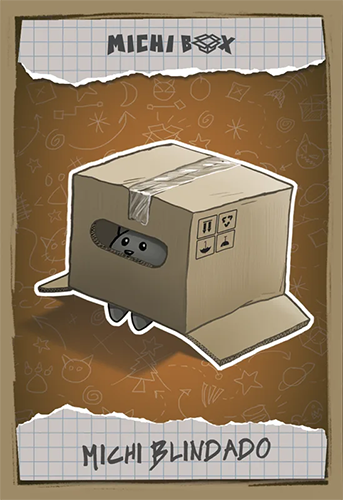
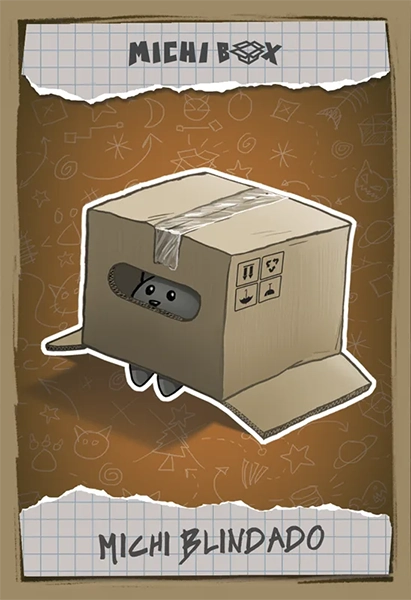
v182

Changed region(s): [[0.8746, 0.6, 0.9038, 0.63], [0.6122, 0.06, 0.6414, 0.09]]

diff --git a/galeria.html b/galeria.html
@@ -253,12 +253,12 @@
             <div class="carta frente" data-circle="circle4">
               <img loading="lazy" class="medio" src="assets/cartas/NORMALES/001.webp" />  
                <div class="codigoqrdecarta sinQRNORMAL"> 
-                  <DIV class="michiconfundido"></DIV>
+                  <DIV class="michiconfundido lazy-michi"></DIV>
                    <p class="TEXTOQRALERTA" > NO PUEDES INTERCAMBIAR CARTAS NORMALES</p>
                 </div>       
                       
             </div>
-            <div class="carta trasera"> </div>
+            <div class="carta trasera lazy-michi"> </div>
           </div>
         </div>
 
@@ -268,11 +268,11 @@
             <div class="carta frente" data-circle="circle4">
               <img loading="lazy" class="medio" src="assets/cartas/NORMALES/002.webp" />   
            <div class="codigoqrdecarta sinQRNORMAL"> 
-                  <DIV class="michiconfundido"></DIV>
+                  <DIV class="michiconfundido lazy-michi "></DIV>
                    <p class="TEXTOQRALERTA" > NO PUEDES INTERCAMBIAR CARTAS NORMALES</p>
                 </div>               
             </div>
-            <div class="carta trasera"> </div>
+            <div class="carta trasera lazy-michi "> </div>
           </div>
         </div>
 
@@ -282,11 +282,11 @@
             <div class="carta frente" data-circle="circle4">
               <img loading="lazy" class="medio" src="assets/cartas/NORMALES/003.webp" />
            <div class="codigoqrdecarta sinQRNORMAL"> 
-                  <DIV class="michiconfundido"></DIV>
+                  <DIV class="michiconfundido lazy-michi "></DIV>
                    <p class="TEXTOQRALERTA" > NO PUEDES INTERCAMBIAR CARTAS NORMALES</p>
                 </div>                  
             </div>
-            <div class="carta trasera"> </div>
+            <div class="carta trasera lazy-michi "> </div>
           </div>
         </div>
 
@@ -296,11 +296,11 @@
             <div class="carta frente" data-circle="circle4">
               <img loading="lazy" class="medio" src="assets/cartas/NORMALES/" />
            <div class="codigoqrdecarta sinQRNORMAL"> 
-                  <DIV class="michiconfundido"></DIV>
+                  <DIV class="michiconfundido lazy-michi "></DIV>
                    <p class="TEXTOQRALERTA" > NO PUEDES INTERCAMBIAR CARTAS NORMALES</p>
                 </div>                  
             </div>
-            <div class="carta trasera"> </div>
+            <div class="carta trasera lazy-michi "> </div>
           </div>
         </div>
 
@@ -310,11 +310,11 @@
             <div class="carta frente" data-circle="circle4">
               <img loading="lazy" class="medio" src="assets/cartas/NORMALES/005.webp" />
            <div class="codigoqrdecarta sinQRNORMAL"> 
-                  <DIV class="michiconfundido"></DIV>
+                  <DIV class="michiconfundido lazy-michi "></DIV>
                    <p class="TEXTOQRALERTA" > NO PUEDES INTERCAMBIAR CARTAS NORMALES</p>
                 </div>                  
             </div>
-            <div class="carta trasera"> </div>
+            <div class="carta trasera lazy-michi "> </div>
           </div>
         </div>
 
@@ -324,11 +324,11 @@
             <div class="carta frente" data-circle="circle4">
               <img loading="lazy" class="medio" src="assets/cartas/NORMALES/" />
            <div class="codigoqrdecarta sinQRNORMAL"> 
-                  <DIV class="michiconfundido"></DIV>
+                  <DIV class="michiconfundido lazy-michi "></DIV>
                    <p class="TEXTOQRALERTA" > NO PUEDES INTERCAMBIAR CARTAS NORMALES</p>
                 </div>                  
             </div>
-            <div class="carta trasera"> </div>
+            <div class="carta trasera lazy-michi "> </div>
           </div>
         </div>
 
@@ -338,11 +338,11 @@
             <div class="carta frente" data-circle="circle4">
               <img loading="lazy" class="medio" src="assets/cartas/NORMALES/" />
            <div class="codigoqrdecarta sinQRNORMAL"> 
-                  <DIV class="michiconfundido"></DIV>
+                  <DIV class="michiconfundido lazy-michi "></DIV>
                    <p class="TEXTOQRALERTA" > NO PUEDES INTERCAMBIAR CARTAS NORMALES</p>
                 </div>                  
             </div>
-            <div class="carta trasera"> </div>
+            <div class="carta trasera lazy-michi "> </div>
           </div>
         </div>
 
@@ -352,11 +352,11 @@
             <div class="carta frente" data-circle="circle4">
               <img loading="lazy" class="medio" src="assets/cartas/NORMALES/" />
            <div class="codigoqrdecarta sinQRNORMAL"> 
-                  <DIV class="michiconfundido"></DIV>
+                  <DIV class="michiconfundido lazy-michi "></DIV>
                    <p class="TEXTOQRALERTA" > NO PUEDES INTERCAMBIAR CARTAS NORMALES</p>
                 </div>                  
             </div>
-            <div class="carta trasera"> </div>
+            <div class="carta trasera lazy-michi "> </div>
           </div>
         </div>
 
@@ -366,11 +366,11 @@
             <div class="carta frente" data-circle="circle4">
               <img loading="lazy" class="medio" src="assets/cartas/NORMALES/" />
            <div class="codigoqrdecarta sinQRNORMAL"> 
-                  <DIV class="michiconfundido"></DIV>
+                  <DIV class="michiconfundido lazy-michi "></DIV>
                    <p class="TEXTOQRALERTA" > NO PUEDES INTERCAMBIAR CARTAS NORMALES</p>
                 </div>                  
             </div>
-            <div class="carta trasera"> </div>
+            <div class="carta trasera lazy-michi "> </div>
           </div>
         </div>
 
@@ -380,11 +380,11 @@
             <div class="carta frente" data-circle="circle4">
               <img loading="lazy" class="medio" src="assets/cartas/NORMALES/010.webp" />
            <div class="codigoqrdecarta sinQRNORMAL"> 
-                  <DIV class="michiconfundido"></DIV>
+                  <DIV class="michiconfundido lazy-michi "></DIV>
                    <p class="TEXTOQRALERTA" > NO PUEDES INTERCAMBIAR CARTAS NORMALES</p>
                 </div>                  
             </div>
-            <div class="carta trasera"> </div>
+            <div class="carta trasera lazy-michi "> </div>
           </div>
         </div>
 
@@ -394,11 +394,11 @@
             <div class="carta frente" data-circle="circle4">
               <img loading="lazy" class="medio" src="assets/cartas/NORMALES/" />
            <div class="codigoqrdecarta sinQRNORMAL"> 
-                  <DIV class="michiconfundido"></DIV>
+                  <DIV class="michiconfundido lazy-michi "></DIV>
                    <p class="TEXTOQRALERTA" > NO PUEDES INTERCAMBIAR CARTAS NORMALES</p>
                 </div>                  
             </div>
-            <div class="carta trasera"> </div>
+            <div class="carta trasera lazy-michi "> </div>
           </div>
         </div>
 
@@ -408,11 +408,11 @@
             <div class="carta frente" data-circle="circle4">
               <img loading="lazy" class="medio" src="assets/cartas/NORMALES/" /> 
                          <div class="codigoqrdecarta sinQRNORMAL"> 
-                  <DIV class="michiconfundido"></DIV>
+                  <DIV class="michiconfundido lazy-michi "></DIV>
                    <p class="TEXTOQRALERTA" > NO PUEDES INTERCAMBIAR CARTAS NORMALES</p>
                 </div>                 
             </div>
-            <div class="carta trasera"> </div>
+            <div class="carta trasera lazy-michi "> </div>
           </div>
         </div>
 
@@ -422,11 +422,11 @@
             <div class="carta frente" data-circle="circle4">
               <img loading="lazy" class="medio" src="assets/cartas/NORMALES/" />
            <div class="codigoqrdecarta sinQRNORMAL"> 
-                  <DIV class="michiconfundido"></DIV>
+                  <DIV class="michiconfundido  lazy-michi"></DIV>
                    <p class="TEXTOQRALERTA" > NO PUEDES INTERCAMBIAR CARTAS NORMALES</p>
                 </div>                  
             </div>
-            <div class="carta trasera"> </div>
+            <div class="carta trasera  lazy-michi"> </div>
           </div>
         </div>
 
@@ -436,11 +436,11 @@
             <div class="carta frente" data-circle="circle4">
               <img loading="lazy" class="medio" src="assets/cartas/NORMALES/" />
            <div class="codigoqrdecarta sinQRNORMAL"> 
-                  <DIV class="michiconfundido"></DIV>
+                  <DIV class="michiconfundido lazy-michi "></DIV>
                    <p class="TEXTOQRALERTA" > NO PUEDES INTERCAMBIAR CARTAS NORMALES</p>
                 </div>                  
             </div>
-            <div class="carta trasera"> </div>
+            <div class="carta trasera  lazy-michi"> </div>
           </div>
         </div>
 
@@ -450,11 +450,11 @@
             <div class="carta frente" data-circle="circle4">
               <img loading="lazy" class="medio" src="assets/cartas/NORMALES/" />
            <div class="codigoqrdecarta sinQRNORMAL"> 
-                  <DIV class="michiconfundido"></DIV>
+                  <DIV class="michiconfundido  lazy-michi"></DIV>
                    <p class="TEXTOQRALERTA" > NO PUEDES INTERCAMBIAR CARTAS NORMALES</p>
                 </div>                  
             </div>
-            <div class="carta trasera"> </div>
+            <div class="carta trasera  lazy-michi"> </div>
           </div>
         </div>
 
@@ -464,11 +464,11 @@
             <div class="carta frente" data-circle="circle4">
               <img loading="lazy" class="medio" src="assets/cartas/NORMALES/" />
            <div class="codigoqrdecarta sinQRNORMAL"> 
-                  <DIV class="michiconfundido"></DIV>
+                  <DIV class="michiconfundido  lazy-michi"></DIV>
                    <p class="TEXTOQRALERTA" > NO PUEDES INTERCAMBIAR CARTAS NORMALES</p>
                 </div>                  
             </div>
-            <div class="carta trasera"> </div>
+            <div class="carta trasera  lazy-michi"> </div>
           </div>
         </div>
 
@@ -478,11 +478,11 @@
             <div class="carta frente" data-circle="circle4">
               <img loading="lazy" class="medio" src="assets/cartas/NORMALES/" /> 
            <div class="codigoqrdecarta sinQRNORMAL"> 
-                  <DIV class="michiconfundido"></DIV>
+                  <DIV class="michiconfundido lazy-michi"></DIV>
                    <p class="TEXTOQRALERTA" > NO PUEDES INTERCAMBIAR CARTAS NORMALES</p>
                 </div>                 
             </div>
-            <div class="carta trasera"> </div>
+            <div class="carta trasera lazy-michi"> </div>
           </div>
         </div>
 
@@ -492,11 +492,11 @@
             <div class="carta frente" data-circle="circle4">
               <img loading="lazy" class="medio" src="assets/cartas/NORMALES/" />
            <div class="codigoqrdecarta sinQRNORMAL"> 
-                  <DIV class="michiconfundido"></DIV>
+                  <DIV class="michiconfundido lazy-michi"></DIV>
                    <p class="TEXTOQRALERTA" > NO PUEDES INTERCAMBIAR CARTAS NORMALES</p>
                 </div>                  
             </div>
-            <div class="carta trasera"> </div>
+            <div class="carta trasera lazy-michi"> </div>
           </div>
         </div>
 
@@ -532,7 +532,7 @@
               z-index: 16;
               background-image: url('/assets/cartas/019/0019animacion.webp'); 
               animation: animacion 0.5s steps(4) forwards infinite;
-              background-size: 1372px 500px;
+              background-size: 1236px 450px;
           "></div>
                 <img loading="lazy" class="sombra" src="assets/cartas/019/0019papel.webp"  />
                 <img loading="lazy" class="capaholograficaestrellas" src="assets/cartas/019/0019fondoTROQUEL.webp" style="z-index: 16; opacity: 30%;" />
@@ -566,7 +566,7 @@
                 z-index: 19;
                 background-image: url('/assets/cartas/020/0020michi.webp'); 
                 animation: animacion 0.2s steps(4) forwards infinite , flotar 1.5s ease-in-out alternate infinite;
-                background-size: 1372px 500px;
+                background-size: 1236px 450px;
             "></div>
                 <img loading="lazy" class="arriba" src="./assets/cartas/020/0020fondo02.webp" />
                 <img loading="lazy" class="sombra" src="assets/cartas/020/0020PAPEL.webp"  />
@@ -629,14 +629,14 @@
               z-index: 7;
               background-image: url('/assets/cartas/022/022animacionfondo.webp'); 
               animation: animacion 0.2s steps(4) forwards infinite;
-              background-size: 1372px 500px;
+              background-size: 1236px 450px;
           "></div>
                   <img loading="lazy" class="bordecarta" style="z-index: 7;">           
                   <div data-lazy="true" class="michi lazy-michi" data-style="
               z-index: 19;
               background-image: url('/assets/cartas/022/022animacion00002.webp'); 
               animation: animacion 0.2s steps(4) forwards infinite , flotar 1.5s ease-in-out alternate infinite;
-              background-size: 1372px 500px;
+              background-size: 1236px 450px;
           "></div>
                 <img loading="lazy" class="sombra" src="assets/cartas/022/022papel.webp"  />
             </div>
@@ -700,7 +700,7 @@
               z-index: 7;
               background-image: url('/assets/cartas/024/024fondo_animacion.webp'); 
               animation: animacion 0.3s steps(4) forwards infinite;
-              background-size: 1372px 500px;
+              background-size: 1236px 450px;
           "></div>
               <img loading="lazy" class="sombra" id="eng" src="assets/cartas/024/024papelarriba.webp" />
               
@@ -732,7 +732,7 @@
                 z-index: 16;
                 background-image: url('/assets/cartas/025/025animacion.webp'); 
                 animation: animacion 0.7s steps(4) forwards infinite;
-                background-size: 1372px 500px;
+                background-size: 1236px 450px;
             "></div>
                 <img loading="lazy" class="sombra" src="assets/cartas/025/025papel.webp"  />
                 <img loading="lazy" class="capaholograficaestrellas" src="assets/cartas/025/025holograma.webp" style="z-index: 18; opacity: 30%;" />
@@ -766,7 +766,7 @@
                 z-index: 16;
                 background-image: url('/assets/cartas/026/026_animacion_02.webp'); 
                 animation: animacion 0.3s steps(4) forwards infinite;
-                background-size: 1372px 500px;
+                background-size: 1236px 450px;
             "></div>
                 <img loading="lazy" class="sombra" src="assets/cartas/026/026_papel.webp"  />
 
@@ -809,7 +809,7 @@
         z-index: 19;
         background-image: url('/assets/cartas/035/035_anim.webp'); 
         animation: animacion 0.3s steps(4) forwards infinite;
-        background-size: 1372px 500px;
+        background-size: 1236px 450px;
     "></div> 
            <div class="codigoqrdecarta sinQRNORMAL"> 
                   <DIV class="michiconfundido"></DIV>
@@ -845,7 +845,7 @@
         z-index: 19;
         background-image: url('/assets/cartas/036/036animacion.webp'); 
         animation: animacion 0.4s steps(4) forwards infinite;
-        background-size: 1372px 500px;
+        background-size: 1236px 450px;
     "></div> 
            <div class="codigoqrdecarta sinQRNORMAL"> 
                   <DIV class="michiconfundido"></DIV>

diff --git a/style/style.css b/style/style.css
@@ -46,7 +46,7 @@ background-size: contain;
 .contenido-alerta {
   width: 60%;
   height: 300px;
-  padding: 10%;
+  padding: 5%;
   border-radius: 12px;
   text-align: center;
   box-shadow: 0 8px 20px rgba(0, 0, 0, 0.3);
@@ -63,6 +63,7 @@ background-size: contain;
 .contenido-alerta p,
 .contenido-alerta button,
 .TEXTOQRALERTA{
+    padding: 0% 10%;
   color: black;
   font-family:Arial, Helvetica, sans-serif;
   font-weight: bold;
@@ -442,7 +443,7 @@ filter: opacity(0);
   transition: opacity 0.2s ease, transform 0.2s ease;
   border-radius: 15PX;
   text-align: center;
-    padding-bottom: 20px;
+  padding: 5%;
     box-shadow: 0px 0px 1px 100px rgba(0, 0, 0, 0.577);
 
 
@@ -510,14 +511,14 @@ display: flex;
   z-index: 10;
   position: absolute; 
   display: flex;
-  perspective: 1000px;
+  perspective: 2000px;
   transform-style: preserve-3d;
 }
 
 .tarjeta.flip {
   animation: giro2 0.8s forwards;
-  width: 343px;
-  height: 500px;
+  width: 309px;
+  height: 450px;
 }
 @keyframes giro2 {
   0% {  transform: rotateY(0deg) scale(2) rotate(-20deg) ;  }
@@ -567,8 +568,8 @@ backface-visibility: hidden;
 .michi{
   background-size: cover;
   position: absolute;
-  width: 343px; 
-  height: 500px;
+  width: 309px; 
+  height: 450px;
 }
 
 
@@ -596,7 +597,7 @@ backface-visibility: hidden;
 
 @keyframes animacion {
   from { background-position: 0 0; }
-  to { background-position: -1372px 0; } /* Se mueve 4 frames (342px * 4) */
+  to { background-position: -1236px 0; } /* Se mueve 4 frames (342px * 4) */
 }
 
 .bordecarta{
